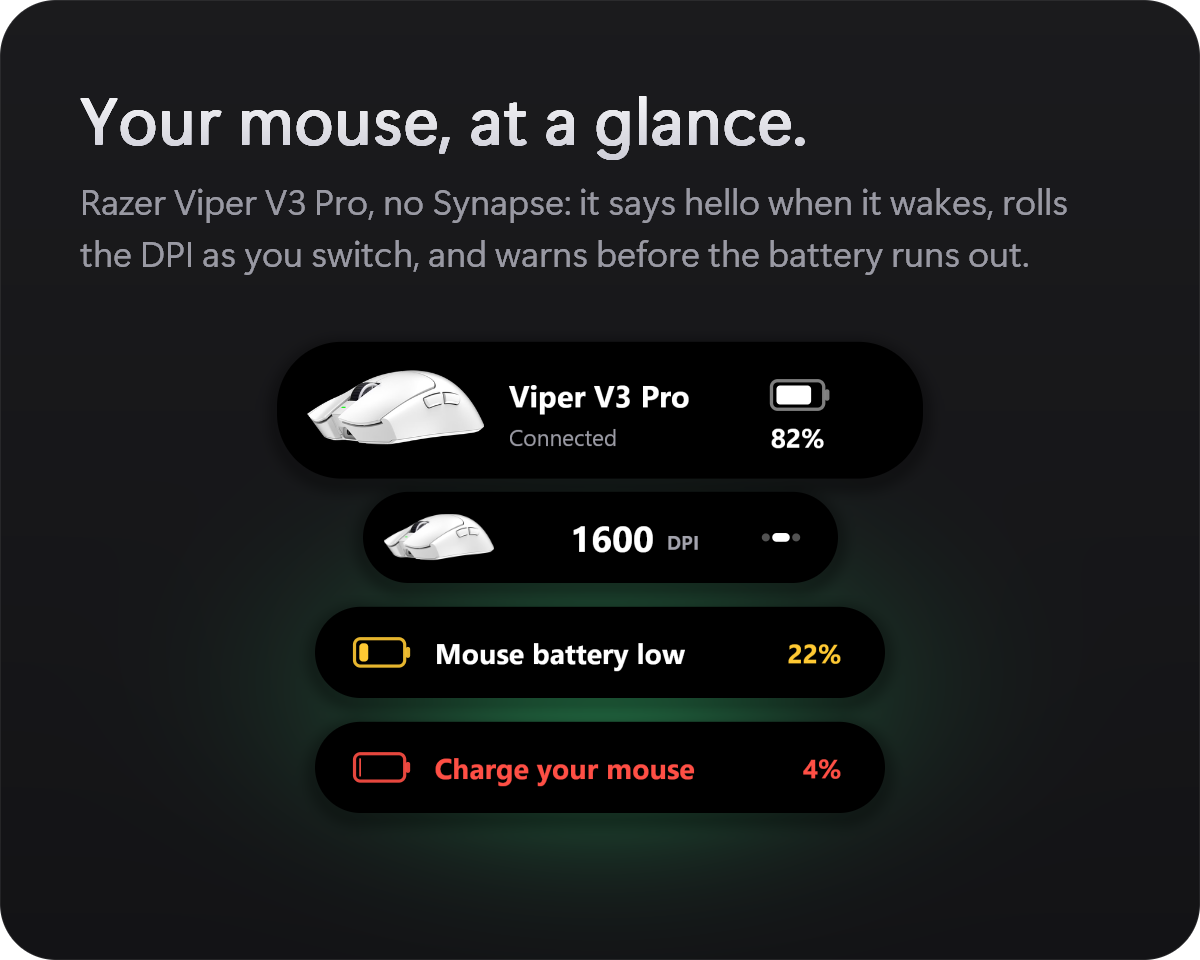
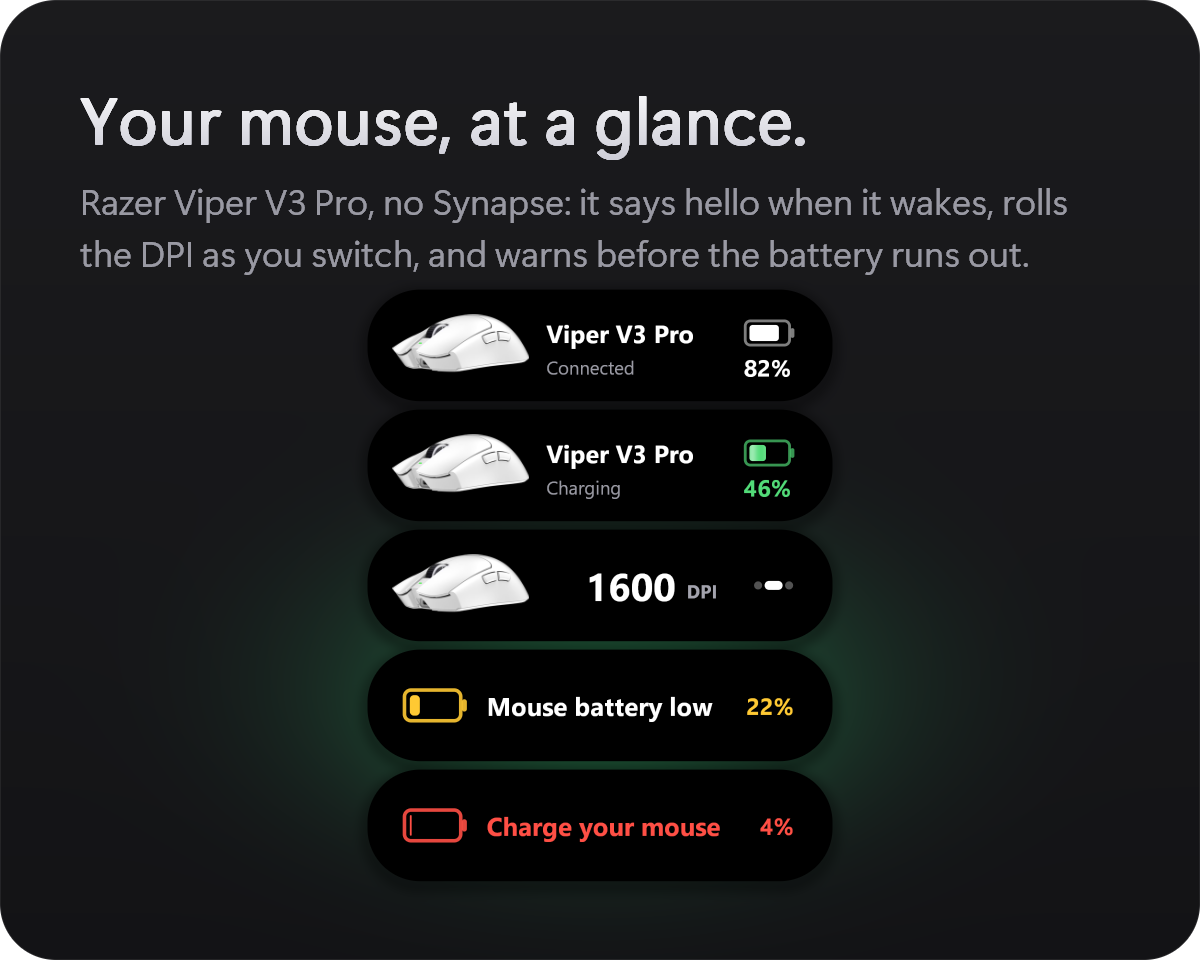
Mouse capsules as big as the volume capsule; a charging animation instead of the bolt

Changed region(s): [[0.2158, 0.2812, 0.7708, 0.9375]]

diff --git a/src/render.rs b/src/render.rs
@@ -269,25 +269,34 @@ fn battery_color(pal: &Palette, level: u8, charging: bool) -> [f32; 3] {
     }
 }
 
-/// A battery: outline, nub, and the charge inside it (`fill` 0..1), with a bolt while it charges.
-/// (x, y) from its center, `k` its size (1 = 22 x 12 units).
+/// A battery: outline, nub, and the charge inside it (`fill` 0..1). (x, y) from its center, `k` its size
+/// (1 = 22 x 12 units). `charging`: the clock (seconds) while it charges: light runs through the charge from
+/// the left end to its tip, over and over, the tip glows, and the outline breathes.
 #[allow(clippy::too_many_arguments)]
-fn battery_icon(p: &mut Px, x: f32, y: f32, k: f32, fill: f32, color: [f32; 3], charging: bool, pal: &Palette, ca: f32, aa: f32) {
+fn battery_icon(p: &mut Px, x: f32, y: f32, k: f32, fill: f32, color: [f32; 3], charging: Option<f32>, pal: &Palette, ca: f32, aa: f32) {
     let (x, y, aa) = (x / k, y / k, aa / k);
     if x.abs() > 15.0 || y.abs() > 8.0 {
         return;
     }
+    let breathe = charging.map_or(1.0, |t| 0.72 + 0.28 * (0.5 + 0.5 * (t * std::f32::consts::TAU / 1.6).cos()));
     let outline = if color == pal.fg { pal.mix(0.55) } else { color };
-    p.over(outline, ca * 0.9 * cov(rrect(x, y, 11.0, 6.0, 2.6).abs() - 0.7, aa));
-    p.over(outline, ca * 0.9 * cov(rrect(x - 12.4, y, 1.0, 2.4, 1.0), aa));
+    p.over(outline, ca * 0.9 * breathe * cov(rrect(x, y, 11.0, 6.0, 2.6).abs() - 0.7, aa));
+    p.over(outline, ca * 0.9 * breathe * cov(rrect(x - 12.4, y, 1.0, 2.4, 1.0), aa));
     let half = 8.9 * fill.clamp(0.0, 1.0); // the charge grows from the left end
     if half > 0.05 {
-        p.over(color, ca * cov(rrect(x + 8.9 - half, y, half, 4.0, half.min(1.6)), aa));
-    }
-    if charging {
-        let bolt = seg(x, y, (1.6, -4.2), (-1.4, 0.4), 0.75).min(seg(x, y, (-1.4, 0.4), (1.4, -0.4), 0.75)).min(seg(x, y, (1.4, -0.4), (-1.6, 4.2), 0.75));
-        p.over(pal.bg, ca * cov(bolt - 0.55, aa)); // a gap around the bolt, then the bolt
-        p.over(pal.fg, ca * cov(bolt, aa));
+        let body = cov(rrect(x + 8.9 - half, y, half, 4.0, half.min(1.6)), aa);
+        p.over(color, ca * body);
+        if let (Some(t), true) = (charging, body > 0.0) {
+            // a soft band of light sweeps from the left end to the tip of the charge every 1.6 s
+            let len = 2.0 * half;
+            let phase = (t / 1.6).fract();
+            let at = -8.9 + (len + 8.0) * sstep(0.0, 1.0, phase) - 4.0;
+            let band = (-((x - at) / 2.4).powi(2)).exp() * (1.0 - sstep(0.75, 1.0, phase));
+            // the tip glows, brighter as the band reaches it
+            let tip = (-((x - (-8.9 + len)) / 1.4).powi(2)).exp() * (0.35 + 0.65 * (-((at - (-8.9 + len)) / 3.0).powi(2)).exp());
+            let glow = (0.55 * band + 0.45 * tip).min(1.0);
+            p.over([1.0, 1.0, 1.0], ca * body * glow * if pal.light { 0.6 } else { 0.75 });
+        }
     }
 }
 
@@ -325,25 +334,25 @@ fn mouse_dpi_content(p: &mut Px, tx: f32, ty: f32, aa: f32, s: &Scene, ca: f32) 
     let e = 1.0 - (1.0 - m.intro.clamp(0.0, 1.0)).powi(3);
 
     if let Some(pic) = m.picture {
-        picture_at(p, pic, tx - 40.0 + (1.0 - e) * 10.0, ry, 25.0, unit, ca * e, pal.light);
+        picture_at(p, pic, tx - (16.0 + 19.0 * pic.aspect()) + (1.0 - e) * 14.0, ry + 1.0, 38.0, unit, ca * e, pal.light);
     }
 
     // the number and "DPI" after it, centered between the picture and the stage markers
-    let right = s.w - 14.0 - 8.0 * m.stages.max(1) as f32;
+    let right = s.w - 18.0 - 10.0 * m.stages.max(1) as f32;
     let label_w = m.dpi_label.map_or(0.0, |l| l.size().0 + 5.0);
     let number_w = m.dpi.map_or(0.0, |d| d.size().0);
-    let cx = (74.0 + right) / 2.0;
+    let cx = (16.0 + 38.0 * m.picture.map_or(1.5, |pic| pic.aspect()) + 10.0 + right) / 2.0;
     let left = cx - (number_w + label_w) / 2.0;
     let rise = 1.0 - (1.0 - m.roll.clamp(0.0, 1.0)).powi(3);
     let leave = sstep(0.0, 0.7, m.roll);
-    const TRAVEL: f32 = 13.0;
+    const TRAVEL: f32 = 17.0;
     if let Some(old) = m.dpi_old.filter(|_| m.roll < 1.0) {
         let w = old.size().0; // where it sat, by its own width
         let old_left = cx - (w + label_w) / 2.0;
-        p.over(pal.fg, ca * (1.0 - leave) * rolling_text(old, tx - (old_left + w / 2.0), ry, -leave * TRAVEL, 15.0, unit));
+        p.over(pal.fg, ca * (1.0 - leave) * rolling_text(old, tx - (old_left + w / 2.0), ry, -leave * TRAVEL, 21.0, unit));
     }
     if let Some(now) = m.dpi {
-        p.over(pal.fg, ca * rise * rolling_text(now, tx - (left + number_w / 2.0), ry, (1.0 - rise) * TRAVEL, 15.0, unit));
+        p.over(pal.fg, ca * rise * rolling_text(now, tx - (left + number_w / 2.0), ry, (1.0 - rise) * TRAVEL, 21.0, unit));
     }
     if let Some(label) = m.dpi_label {
         let end = |w: f32| cx - (w + label_w) / 2.0 + w + 5.0; // where the label starts after a number this wide
@@ -351,20 +360,20 @@ fn mouse_dpi_content(p: &mut Px, tx: f32, ty: f32, aa: f32, s: &Scene, ca: f32) 
             Some(old) => lerp(end(old.size().0), end(number_w), rise),
             None => end(number_w),
         };
-        p.over(pal.dim, ca * text_left(label, tx - at, ry - 2.5, label.size().0, 0.0, unit));
+        p.over(pal.dim, ca * text_left(label, tx - at, ry - 3.5, label.size().0, 0.0, unit));
     }
 
     // the stages: a dot each, the active one a bar that slides to its place
     if m.stages > 1 && ry.abs() < 5.0 {
-        let x0 = s.w - 22.0 - 8.0 * (m.stages - 1) as f32;
+        let x0 = s.w - 28.0 - 10.0 * (m.stages - 1) as f32;
         let lx = tx - x0;
-        if lx > -8.0 && lx < 8.0 * m.stages as f32 + 8.0 {
+        if lx > -10.0 && lx < 10.0 * m.stages as f32 + 10.0 {
             for i in 0..m.stages {
-                p.over(pal.mix(0.32), ca * cov((lx - 8.0 * i as f32).hypot(ry) - 2.1, aa));
+                p.over(pal.mix(0.32), ca * cov((lx - 10.0 * i as f32).hypot(ry) - 2.6, aa));
             }
-            let at = 8.0 * m.stage;
-            let stretch = 4.6 + 2.5 * (m.stage - m.stage.round()).abs(); // longer while it travels
-            p.over(pal.fg, ca * cov(rrect(lx - at, ry, stretch, 2.3, 2.3), aa));
+            let at = 10.0 * m.stage;
+            let stretch = 5.8 + 3.0 * (m.stage - m.stage.round()).abs(); // longer while it travels
+            p.over(pal.fg, ca * cov(rrect(lx - at, ry, stretch, 2.9, 2.9), aa));
         }
     }
 }
@@ -376,14 +385,14 @@ fn mouse_battery_content(p: &mut Px, tx: f32, ty: f32, aa: f32, s: &Scene, ca: f
     let color = battery_color(pal, m.level, m.charging);
     let e = 1.0 - (1.0 - m.intro.clamp(0.0, 1.0)).powi(3);
     let pop = 0.82 + 0.18 * e + 0.06 * (std::f32::consts::PI * e).sin(); // a little overshoot as it lands
-    battery_icon(p, tx - 34.0, ry, 1.2 * pop, m.fill, color, m.charging, pal, ca, aa);
+    battery_icon(p, tx - 42.0, ry, 1.65 * pop, m.fill, color, m.charging.then_some(s.marq), pal, ca, aa);
     let percent_w = m.percent.map_or(0.0, |t| t.size().0);
     if let Some(warn) = m.warn {
-        let view = s.w - 62.0 - percent_w - 26.0;
-        p.over(if m.level == 2 { color } else { pal.fg }, ca * text_left(warn, tx - 62.0, ry, view, 0.0, unit));
+        let view = s.w - 76.0 - percent_w - 28.0;
+        p.over(if m.level == 2 { color } else { pal.fg }, ca * text_left(warn, tx - 76.0, ry, view, 0.0, unit));
     }
     if let Some(percent) = m.percent {
-        p.over(color, ca * text_left(percent, tx - (s.w - 22.0 - percent_w), ry, percent_w, 0.0, unit));
+        p.over(color, ca * text_left(percent, tx - (s.w - 24.0 - percent_w), ry, percent_w, 0.0, unit));
     }
 }
 
@@ -395,12 +404,12 @@ fn mouse_link_content(p: &mut Px, tx: f32, ty: f32, aa: f32, s: &Scene, ca: f32)
 
     // the picture glides in from the left
     if let Some(pic) = m.picture {
-        let h = 40.0;
+        let h = 38.0;
         let w = h * pic.aspect();
         picture_at(p, pic, tx - (16.0 + w / 2.0) + (1.0 - e) * 22.0, ry + 1.0, h, unit, ca * e, pal.light);
     }
-    let left = 16.0 + 40.0 * m.picture.map_or(0.0, |pic| pic.aspect()) + 12.0;
-    let right = s.w - 92.0;
+    let left = 16.0 + 38.0 * m.picture.map_or(0.0, |pic| pic.aspect()) + 10.0;
+    let right = s.w - 72.0;
     if let Some(title) = m.title {
         p.over(pal.fg, ca * text_left(title, tx - left, ty - 28.0, right - left, s.marq, unit));
     }
@@ -410,10 +419,10 @@ fn mouse_link_content(p: &mut Px, tx: f32, ty: f32, aa: f32, s: &Scene, ca: f32)
 
     // the battery fills up as the card comes in
     let color = battery_color(pal, m.level, m.charging);
-    battery_icon(p, tx - (s.w - 66.0), ty - 28.0, 1.25, m.fill, color, m.charging, pal, ca, aa);
+    battery_icon(p, tx - (s.w - 42.0), ty - 28.0, 1.3, m.fill, color, m.charging.then_some(s.marq), pal, ca, aa);
     if let Some(percent) = m.percent {
         let w = percent.size().0;
-        p.over(color, ca * text_left(percent, tx - (s.w - 66.0 - w / 2.0), ty - 50.0, w, 0.0, unit));
+        p.over(color, ca * text_left(percent, tx - (s.w - 42.0 - w / 2.0), ty - 50.0, w, 0.0, unit));
     }
 }
 

diff --git a/src/demo.rs b/src/demo.rs
@@ -699,11 +699,11 @@ pub fn run(dir: &str) {
 
     // 5b. the Razer mouse
     let pic = crate::razer::picture();
-    let (dpi, dpi_label) = (raster("1600", -76, 700), raster("DPI", -40, 700));
-    let (name, linked, pct) = (raster("Viper V3 Pro", -64, 700), raster(en.mouse_connected, -48, 400), raster("82%", -56, 700));
-    let (low, low_pct, crit, crit_pct) = (raster(en.battery_low, -60, 700), raster("22%", -56, 700), raster(en.battery_critical, -60, 700), raster("4%", -56, 700));
+    let (dpi, dpi_label) = (raster("1600", -100, 700), raster("DPI", -48, 700));
+    let (name, linked, pct) = (raster("Viper V3 Pro", -64, 700), raster(en.mouse_connected, -48, 400), raster("82%", -60, 700));
+    let (low, low_pct, crit, crit_pct) = (raster(en.battery_low, -66, 700), raster("22%", -60, 700), raster(en.battery_critical, -66, 700), raster("4%", -60, 700));
     let mouse = |kind: Kind, size: (f32, f32), view: MouseView<'static>| {
-        let mut sc = capsule(size, kind, 1.9);
+        let mut sc = capsule(size, kind, 1.55);
         sc.mouse = Some(view);
         shoot(&sc)
     };
@@ -712,16 +712,22 @@ pub fn run(dir: &str) {
     let keep = |t: Option<TextBmp>| -> Option<&'static TextBmp> { t.map(|t| &*Box::leak(Box::new(t))) };
     let (dpi, dpi_label, name, linked, pct, low, low_pct, crit, crit_pct) = (keep(dpi), keep(dpi_label), keep(name), keep(linked), keep(pct), keep(low), keep(low_pct), keep(crit), keep(crit_pct));
     let link_img = mouse(Kind::MouseLink, ui::MOUSE_LINK, MouseView { title: name, sub: linked, percent: pct, ..base(0, 0.82) });
+    let charging_txt = keep(raster(en.mouse_charging, -48, 400));
+    let charge_img = {
+        let mut sc = capsule(ui::MOUSE_LINK, Kind::MouseLink, 1.55);
+        sc.marq = 0.62;
+        sc.mouse = Some(MouseView { title: name, sub: charging_txt, percent: keep(raster("46%", -60, 700)), charging: true, ..base(0, 0.46) });
+        shoot(&sc)
+    };
     let dpi_img = mouse(Kind::MouseDpi, ui::MOUSE_DPI, MouseView { dpi, dpi_label, stage: 1.0, ..base(0, 0.82) });
     let low_img = mouse(Kind::MouseBattery, ui::MOUSE_BATTERY, MouseView { warn: low, percent: low_pct, ..base(1, 0.22) });
     let crit_img = mouse(Kind::MouseBattery, ui::MOUSE_BATTERY, MouseView { warn: crit, percent: crit_pct, ..base(2, 0.04) });
     save(
         "card-mouse",
         &card("Your mouse, at a glance.", "Razer Viper V3 Pro, no Synapse: it says hello when it wakes, rolls the DPI as you switch, and warns before the battery runs out.", green, |c, cx, cy| {
-            show(c, &link_img, cx, cy - 360.0);
-            show(c, &dpi_img, cx, cy - 210.0);
-            show(c, &low_img, cx, cy - 95.0);
-            show(c, &crit_img, cx, cy + 20.0);
+            for (i, img) in [&link_img, &charge_img, &dpi_img, &low_img, &crit_img].into_iter().enumerate() {
+                show(c, img, cx, cy - 410.0 + i as f32 * 120.0);
+            }
         }),
     );
 

diff --git a/src/island.rs b/src/island.rs
@@ -1181,7 +1181,7 @@ impl MouseUi {
         self.fill_goal = now.battery.map_or(0.0, |b| b as f32 / 100.0);
         if now.battery.map(|b| (b, t.percent_first)) != self.battery_text {
             self.battery_text = now.battery.map(|b| (b, t.percent_first));
-            self.percent = now.battery.and_then(|b| text::raster(&if t.percent_first { format!("%{b}") } else { format!("{b}%") }, -56, 700));
+            self.percent = now.battery.and_then(|b| text::raster(&if t.percent_first { format!("%{b}") } else { format!("{b}%") }, -60, 700));
         }
     }
 }
@@ -1193,7 +1193,7 @@ fn is_mouse(kind: Kind) -> bool {
 /// The battery warning's text: "charge your mouse" (red) or "battery low" (yellow).
 fn mouse_warning(s: &mut State, critical: bool) {
     let t = s.strings();
-    s.mouse.warn = text::raster(if critical { t.battery_critical } else { t.battery_low }, -60, 700);
+    s.mouse.warn = text::raster(if critical { t.battery_critical } else { t.battery_low }, -66, 700);
     s.mouse.intro = 0.0;
 }
 
@@ -1273,11 +1273,11 @@ unsafe fn mouse_event(hwnd: HWND, ev: usize) {
         let rolls = ev == razer::EV_DPI && s.live() && s.kind == Kind::MouseDpi;
         s.mouse.dpi_old = if rolls { s.mouse.dpi.take() } else { None };
         s.mouse.roll = if rolls { 0.0 } else { 1.0 };
-        s.mouse.dpi = text::raster(&now.dpi.to_string(), -76, 700);
+        s.mouse.dpi = text::raster(&now.dpi.to_string(), -100, 700);
         s.mouse.dpi_value = now.dpi;
     }
     if s.mouse.dpi_label.is_none() {
-        s.mouse.dpi_label = text::raster("DPI", -40, 700);
+        s.mouse.dpi_label = text::raster("DPI", -48, 700);
     }
     s.mouse.stage_goal = now.stage as f32;
     if s.mouse.stages != now.stages || ev != razer::EV_DPI {
@@ -2222,6 +2222,7 @@ unsafe fn tick(hwnd: HWND) {
         && s.song_prev.is_none()
         && s.lyric_swap >= 1.0
         && s.mouse.settled()
+        && !(s.mouse.charging && is_mouse(s.kind)) // the charging animation runs while its card is up
         && s.pin_fade == s.pin_fade_goal
         && s.toggles == targets;
     if settled {

diff --git a/src/ui.rs b/src/ui.rs
@@ -17,9 +17,10 @@ pub const UPLOAD: (f32, f32) = TWO_ROWS;
 pub const PINNED: (f32, f32) = (VOLUME_W, VOLUME_H); // cover | title and artist | visualizer
 pub const PINNED_TALL: (f32, f32) = (340.0, 80.0); // ... with the current lyric line in a row of its own below
 pub const DROP: (f32, f32) = (VOLUME_W, VOLUME_H); // shown while a file is dragged: drop it here
-pub const MOUSE_DPI: (f32, f32) = (250.0, VOLUME_H); // picture | the DPI | stage markers
-pub const MOUSE_BATTERY: (f32, f32) = (VOLUME_W, VOLUME_H); // battery | "battery low" | percent
-pub const MOUSE_LINK: (f32, f32) = TWO_ROWS; // picture | name and "connected" | battery
+// the mouse's capsules are as big as the volume capsule (with its line underneath)
+pub const MOUSE_DPI: (f32, f32) = (VOLUME_W, VOLUME_H_SUB); // picture | the DPI | stage markers
+pub const MOUSE_BATTERY: (f32, f32) = (VOLUME_W, VOLUME_H_SUB); // battery | "battery low" | percent
+pub const MOUSE_LINK: (f32, f32) = (VOLUME_W, VOLUME_H_SUB); // picture | name and "connected" | battery
 
 pub const KNOB: (f32, f32) = (252.0, 252.0); // the capsule morphs into this disc
 pub const KNOB_RADIUS: f32 = 126.0;
